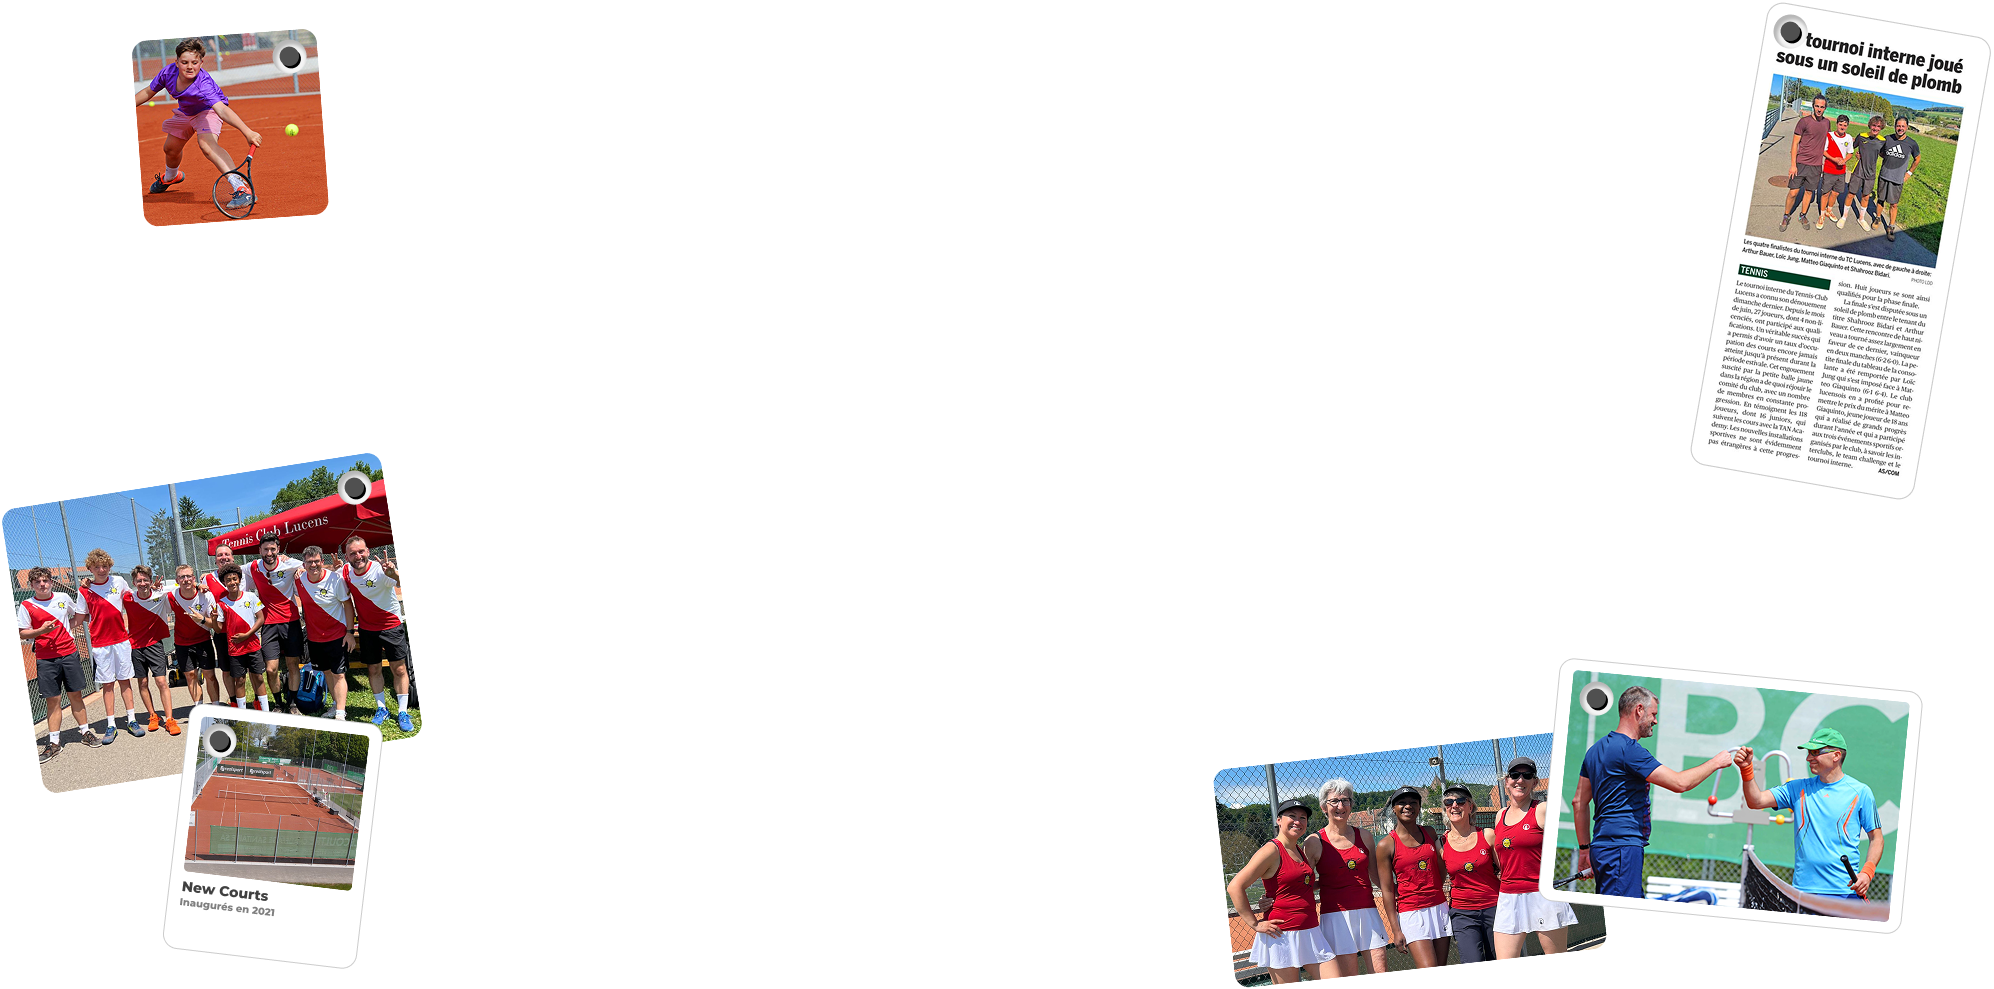
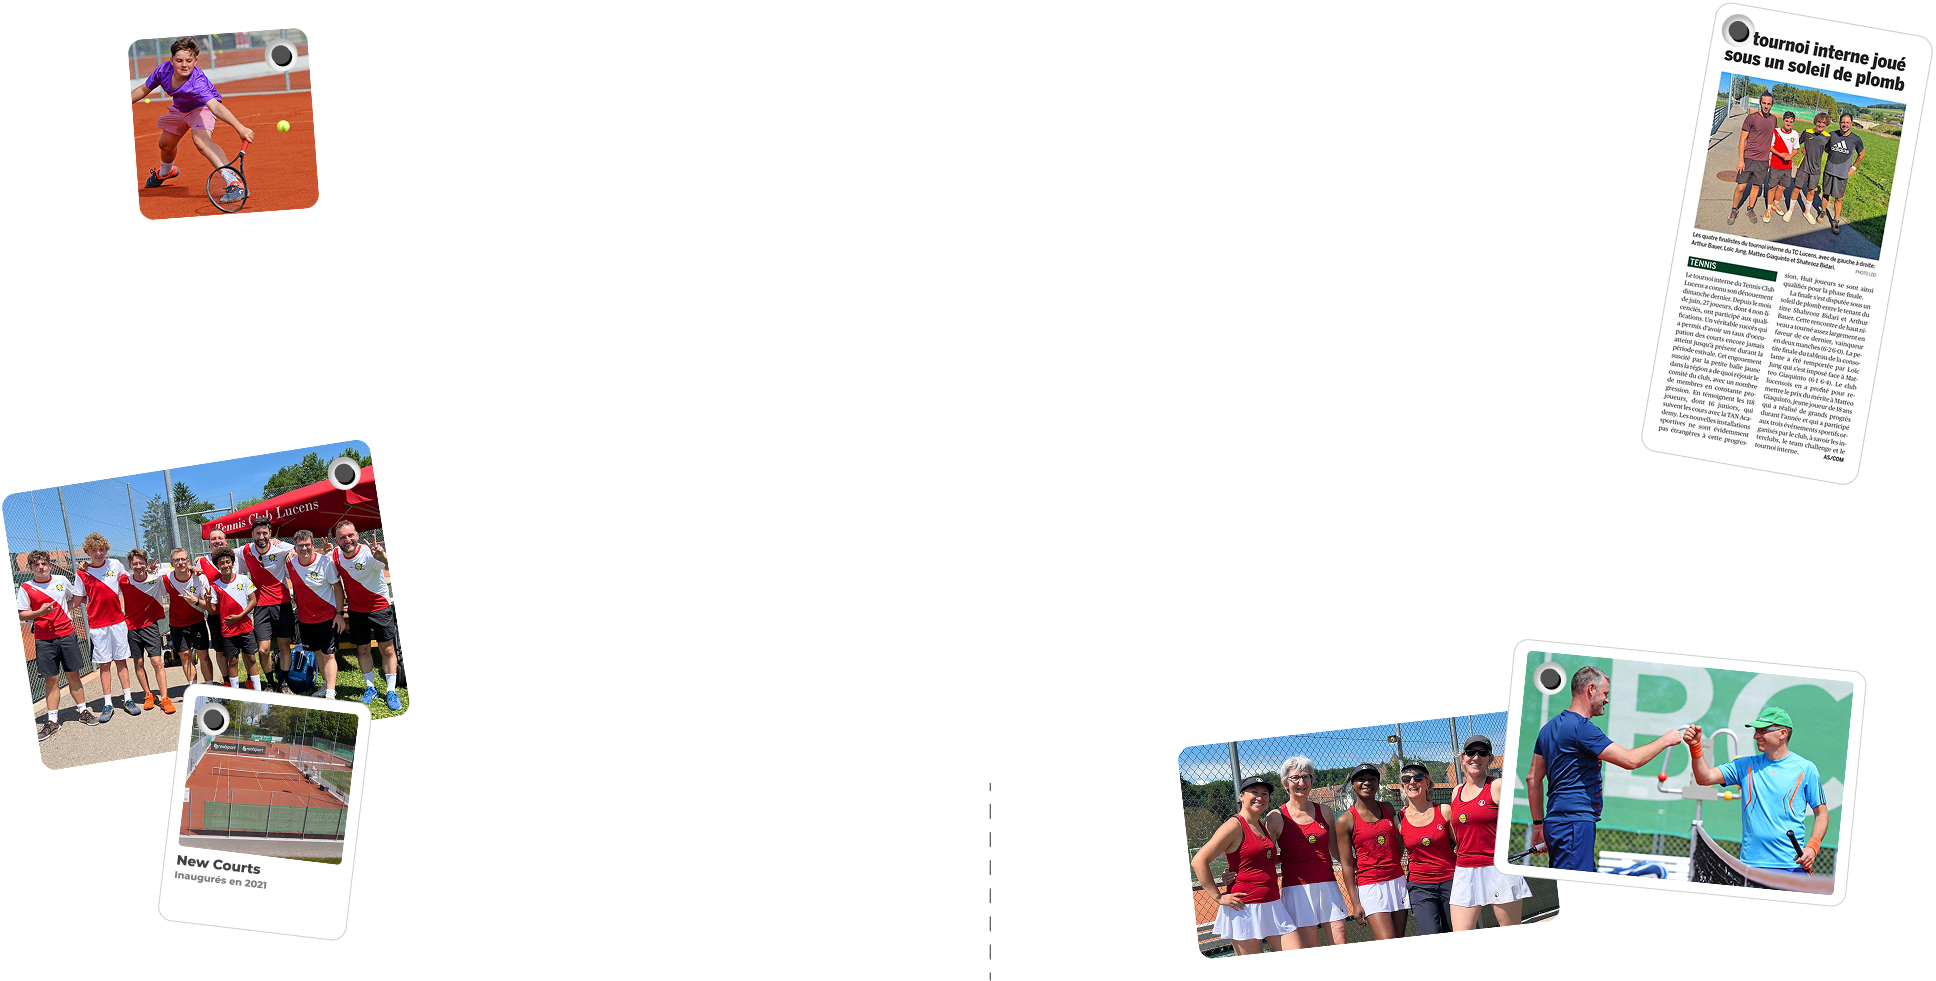
responsive < 500px & > 500px

diff --git a/css/home.css b/css/home.css
@@ -68,6 +68,10 @@ nav button {
   font-family: var(--Montserrat);
 }
 
+#mobile-nav {
+  display: none;
+}
+
 /* ================= Landing / Hero */
 
 #landing-images {
@@ -75,6 +79,14 @@ nav button {
   top: 130px;
   margin-left: -80px;
   z-index: 2;
+}
+
+#landing-images-mobile {
+  display: none;
+}
+
+#landing-bot {
+  display: none;
 }
 
 .landing {
@@ -687,6 +699,9 @@ footer .sous-section ul li:first-child {
   .landing {
     height: 1100px;
   }
+  #landing-images {
+    height: 1100px;
+  }
 }
 
 @media (max-width: 1850px) {
@@ -785,6 +800,7 @@ footer .sous-section ul li:first-child {
   }
   header {
     transform: scale(0.7208);
+    top: 3%;
   }
 }
 
@@ -929,6 +945,7 @@ footer .sous-section ul li:first-child {
   }
   header {
     transform: scale(0.5229);
+    top: 1%;
   }
 }
 
@@ -992,6 +1009,233 @@ footer .sous-section ul li:first-child {
   }
   header {
     transform: scale(0.4708);
+  }
+}
+
+@media (max-width: 980px) {
+  .container {
+    transform: scale(0.4604);
+  }
+  header {
+    transform: scale(0.4604);
+  }
+}
+
+@media (max-width: 960px) {
+  .container {
+    transform: scale(0.45);
+  }
+  header {
+    transform: scale(0.45);
+  }
+}
+
+@media (max-width: 940px) {
+  .container {
+    transform: scale(0.4396);
+  }
+  header {
+    transform: scale(0.4396);
+  }
+}
+
+@media (max-width: 920px) {
+  .container {
+    transform: scale(0.4292);
+  }
+  header {
+    transform: scale(0.4292);
+    top: -2%;
+  }
+}
+
+@media (max-width: 900px) {
+  .container {
+    transform: scale(0.4188);
+  }
+  header {
+    transform: scale(0.4188);
+  }
+}
+
+@media (max-width: 880px) {
+  .container {
+    transform: scale(0.4084);
+  }
+  header {
+    transform: scale(0.4084);
+  }
+}
+
+@media (max-width: 860px) {
+  .container {
+    transform: scale(0.398);
+  }
+  header {
+    transform: scale(0.398);
+  }
+}
+
+@media (max-width: 840px) {
+  .container {
+    transform: scale(0.3876);
+  }
+  header {
+    transform: scale(0.3876);
+  }
+}
+
+@media (max-width: 820px) {
+  .container {
+    transform: scale(0.3772);
+  }
+  header {
+    transform: scale(0.3772);
+  }
+}
+
+@media (max-width: 800px) {
+  .container {
+    transform: scale(0.3668);
+  }
+  header {
+    transform: scale(0.3668);
+  }
+}
+
+@media (max-width: 780px) {
+  .container {
+    transform: scale(0.3564);
+  }
+  header {
+    transform: scale(0.3564);
+  }
+}
+
+@media (max-width: 760px) {
+  .container {
+    transform: scale(0.346);
+  }
+  header {
+    transform: scale(0.346);
+  }
+}
+
+@media (max-width: 740px) {
+  .container {
+    transform: scale(0.3356);
+  }
+  header {
+    transform: scale(0.3356);
+  }
+}
+
+@media (max-width: 720px) {
+  .container {
+    transform: scale(0.3252);
+  }
+  header {
+    transform: scale(0.3252);
+    top: -3%;
+  }
+}
+
+@media (max-width: 700px) {
+  .container {
+    transform: scale(0.3148);
+  }
+  header {
+    transform: scale(0.3148);
+  }
+}
+
+@media (max-width: 680px) {
+  .container {
+    transform: scale(0.3044);
+  }
+  header {
+    transform: scale(0.3044);
+  }
+}
+
+@media (max-width: 660px) {
+  .container {
+    transform: scale(0.294);
+  }
+  header {
+    transform: scale(0.294);
+  }
+}
+
+@media (max-width: 640px) {
+  .container {
+    transform: scale(0.2836);
+  }
+  header {
+    transform: scale(0.2836);
+  }
+}
+
+@media (max-width: 620px) {
+  .container {
+    transform: scale(0.2732);
+  }
+  header {
+    transform: scale(0.2732);
+  }
+}
+
+@media (max-width: 600px) {
+  .container {
+    transform: scale(0.2628);
+  }
+  header {
+    transform: scale(0.2628);
+  }
+}
+
+@media (max-width: 580px) {
+  .container {
+    transform: scale(0.2524);
+  }
+  header {
+    transform: scale(0.2524);
+  }
+}
+
+@media (max-width: 560px) {
+  .container {
+    transform: scale(0.242);
+  }
+  header {
+    transform: scale(0.242);
+  }
+}
+
+@media (max-width: 540px) {
+  .container {
+    transform: scale(0.2316);
+  }
+  header {
+    transform: scale(0.2316);
+  }
+}
+
+@media (max-width: 520px) {
+  .container {
+    transform: scale(0.2212);
+  }
+  header {
+    transform: scale(0.2212);
+  }
+}
+
+@media (max-width: 500px) {
+  .container {
+    transform: scale(0.2108);
+  }
+  header {
+    transform: scale(0.2108);
   }
 }
 
@@ -1059,9 +1303,62 @@ footer .sous-section ul li:first-child {
   .landing {
     top: 2vh;
     height: 95dvh;
-    width: 90%;
+    width: 92.5%;
     border-radius: 20px;
-    background-image: url("../assets/svg/hero_gradient.svg");
+    background-image: url("../assets/svg/hero_gradient-mobile.svg");
     background-size: 100% 80%;
+  }
+
+  #landing-images {
+    display: none;
+  }
+
+  #landing-images-mobile {
+    display: inline;
+    position: absolute;
+    top: 0;
+    left: 0;
+    z-index: 2;
+  }
+
+  #landing-bot {
+    display: inline;
+    position: absolute;
+    top: 60vh;
+    left: 0;
+    z-index: -1;
+  }
+
+  #lien-swiss {
+    transform: scale(0.75);
+  }
+
+  .hero h1 {
+    font-size: 25px;
+  }
+
+  .hero #tennis {
+    font-size: 45px;
+  }
+
+  .hero #points {
+    font: var(--Mont-subtitle);
+    font-weight: 500;
+    margin-left: -3px;
+  }
+
+  .hero #lucens {
+    font-size: 40px;
+  }
+
+  .hero h4 {
+    font-size: 14px;
+  }
+
+  .hero #hero-buttons {
+    flex-direction: column;
+    gap: 20px;
+    transform: scale(0.55);
+    margin: -40px 0 0 0;
   }
 }

diff --git a/html/home.html b/html/home.html
@@ -53,6 +53,16 @@
         src="../assets/img/landing-images.png"
         alt="Photos du club"
       />
+      <img
+        id="landing-images-mobile"
+        src="../assets/img/landing-images-mobile.png"
+        alt="Photos du club"
+      />
+      <img
+        id="landing-bot"
+        src="../assets/img/landing-bot-mobile.png"
+        alt="Photos du club"
+      />
       <div class="landing">
         <div class="hero">
           <a id="lien-swiss" href="#"
@@ -79,7 +89,7 @@
           </h1>
           <h4>Ici, 15 balles par mois suffisent !</h4>
           <div id="hero-buttons">
-            <button id="reserver">Réserver un terrain</button>
+            <button id="reserver">Réserver un court</button>
             <button id="inscrire" class="black-button">S'inscrire</button>
           </div>
         </div>
